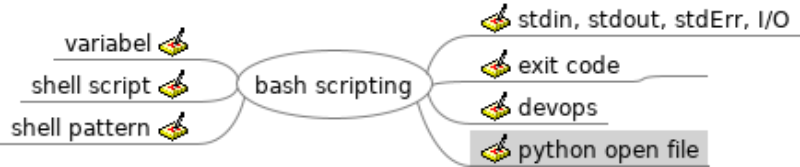
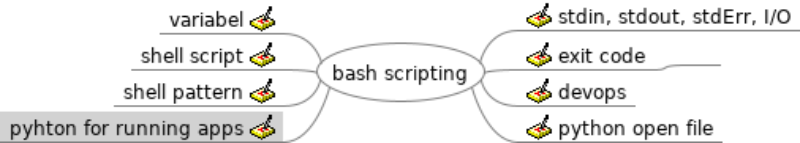
update lecture notes

diff --git a/kubernetes.mm b/kubernetes.mm
@@ -16,7 +16,7 @@
   </body>
 </html></richcontent>
 </node>
-<node CREATED="1652885128600" ID="ID_1787676997" MODIFIED="1652948127869" POSITION="left" TEXT="master slave">
+<node CREATED="1652885128600" FOLDED="true" ID="ID_1787676997" MODIFIED="1656947157795" POSITION="left" TEXT="master slave">
 <richcontent TYPE="NOTE"><html>
   <head>
     
@@ -35,7 +35,8 @@
       scheduler..
     </p>
   </body>
-</html></richcontent>
+</html>
+</richcontent>
 <node CREATED="1652948127845" ID="ID_673574802" MODIFIED="1652948130596" TEXT="api server"/>
 <node CREATED="1652948130831" ID="ID_1071568532" MODIFIED="1652948252065" TEXT="scheduler">
 <richcontent TYPE="NOTE"><html>
@@ -117,7 +118,7 @@
   </body>
 </html></richcontent>
 </node>
-<node CREATED="1653055462663" ID="ID_1220019825" MODIFIED="1655299258917" POSITION="left" TEXT="kubectl basic command">
+<node CREATED="1653055462663" FOLDED="true" ID="ID_1220019825" MODIFIED="1656947159403" POSITION="left" TEXT="kubectl basic command">
 <richcontent TYPE="NOTE"><html>
   <head>
     
@@ -324,6 +325,22 @@
     </p>
     <p>
       limit cpu, ram and others
+    </p>
+  </body>
+</html>
+</richcontent>
+</node>
+<node CREATED="1656947163273" ID="ID_1699833450" MODIFIED="1656947177952" POSITION="right" TEXT="docker">
+<richcontent TYPE="NOTE"><html>
+  <head>
+    
+  </head>
+  <body>
+    <p>
+      docker start -a
+    </p>
+    <p>
+      -a buat attach
     </p>
   </body>
 </html>

diff --git a/bash scripting.mm b/bash scripting.mm
@@ -207,5 +207,45 @@
 </html>
 </richcontent>
 </node>
+<node CREATED="1656859443999" ID="ID_951699226" MODIFIED="1656861511870" POSITION="left" TEXT="pyhton for running apps">
+<richcontent TYPE="NOTE"><html>
+  <head>
+    
+  </head>
+  <body>
+    <p>
+      subprocess module
+    </p>
+    <p>
+      subprocess.run()
+    </p>
+    <p>
+      minta parameter ... check
+    </p>
+    <p>
+      
+    </p>
+    <p>
+      global name variabel
+    </p>
+    <p>
+      
+    </p>
+    <p>
+      __name__ == &quot;apalah&quot;
+    </p>
+    <p>
+      main
+    </p>
+    <p>
+      
+    </p>
+    <p>
+      argparse
+    </p>
+  </body>
+</html>
+</richcontent>
+</node>
 </node>
 </map>

diff --git a/docker_kubernetes.md b/docker_kubernetes.md
@@ -1,0 +1,7 @@
+# docker and kubernetes
+
+## npm stuff
+npm init
+npm start
+npm install
+
